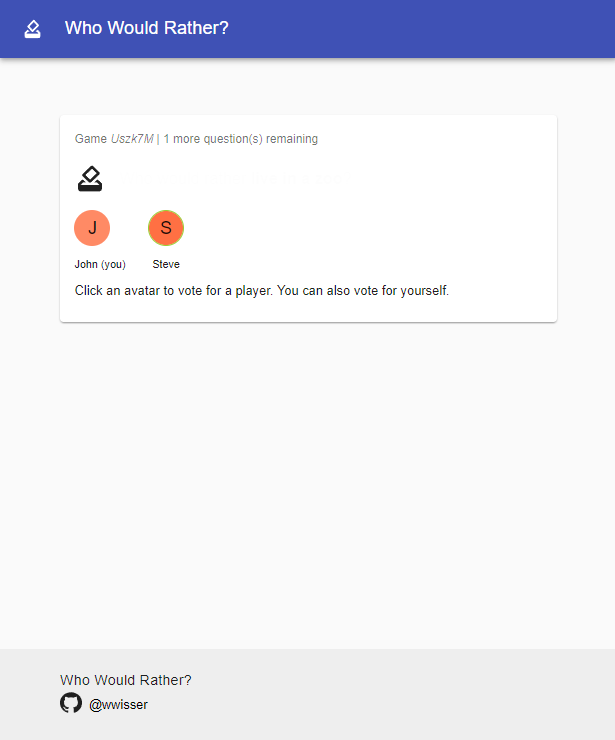
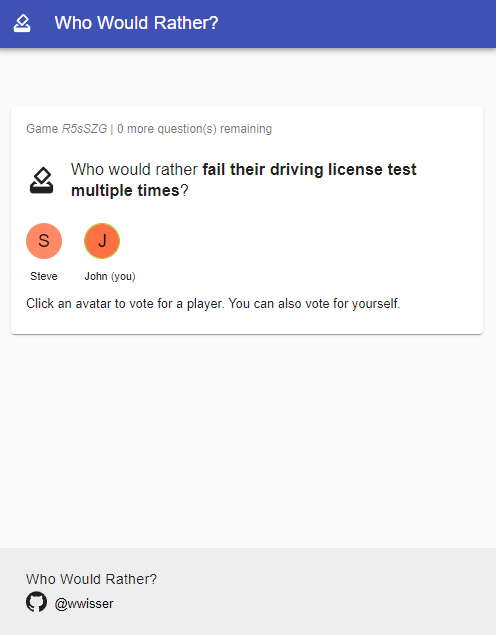
Fix bug in voting

Changed region(s): [[0.0302, 0.1795, 0.877, 0.5087], [0.0, 0.0, 1.0, 0.0898], [0.0302, 0.8976, 0.3327, 0.9575]]

diff --git a/client/src/game/player-list.jsx b/client/src/game/player-list.jsx
@@ -6,8 +6,12 @@ import config from "../config.json";
 
 function PlayerList({theme, game, token, nameSelf}) {
     const isVotingEnabled = () => game.state === 'PLAYING';
-    const didVote = (player) => {
-        return game.votes[game.currentQuestion]?.find(vote => vote.target.name === player.name && vote.from.name === nameSelf);
+    const didVoteForPlayer = (player) => {
+        return game.votes[game.currentQuestion]?.some(vote => vote.target.name === player.name && vote.from.name === nameSelf);
+    };
+
+    const didVote = () => {
+        return game.votes[game.currentQuestion]?.some(vote => vote.from.name === nameSelf);
     };
 
     const avatars = {};
@@ -19,7 +23,7 @@ function PlayerList({theme, game, token, nameSelf}) {
             const style = {
                 color: theme.palette.getContrastText(deepOrange[(i + 3) * 100]),
                 backgroundColor: deepOrange[(i + 3) * 100],
-                cursor: isVotingEnabled() && !didVote(player) ? 'pointer' : null
+                cursor: isVotingEnabled() && !didVote() ? 'pointer' : null
             };
 
             if (game.votes[game.currentQuestion]?.find(vote => vote.target.name === player.name && vote.from.name === nameSelf)) {
@@ -38,7 +42,7 @@ function PlayerList({theme, game, token, nameSelf}) {
     };
 
     const submitVote = (target) => {
-        if (!isVotingEnabled() || didVote(target)) {
+        if (!isVotingEnabled() || didVote()) {
             return;
         }
 

diff --git a/client/src/game/playing.jsx b/client/src/game/playing.jsx
@@ -37,7 +37,7 @@ export default function Playing({game, token, nameSelf}) {
                 </Typography>
                 <Typography variant="h5" component="h2" className={classes.topic}>
                     <HowToVote className={classes.icon}/>
-                    <p style={{opacity: 0.01, transition: 'opacity 100ms ease-in'}}>
+                    <p>
                         Who would rather <b>{game.currentQuestion}</b>?
                     </p>
                 </Typography>
